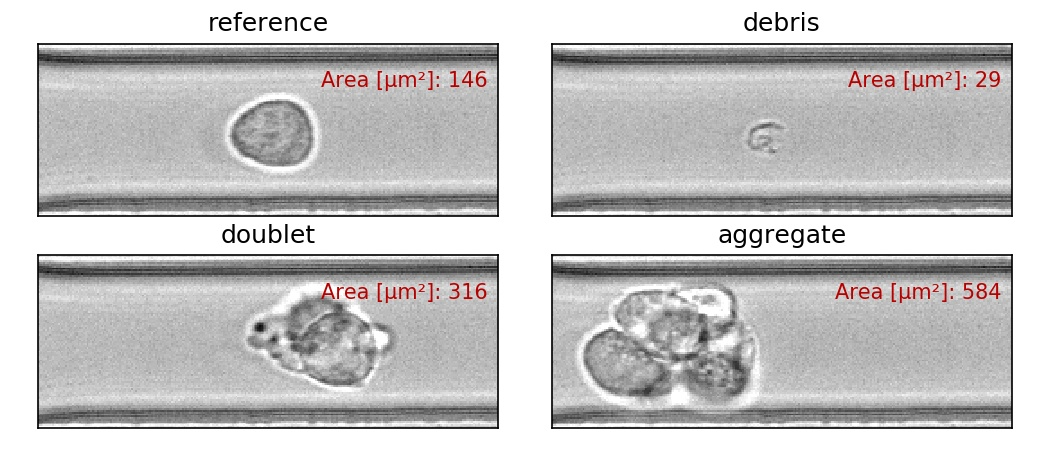
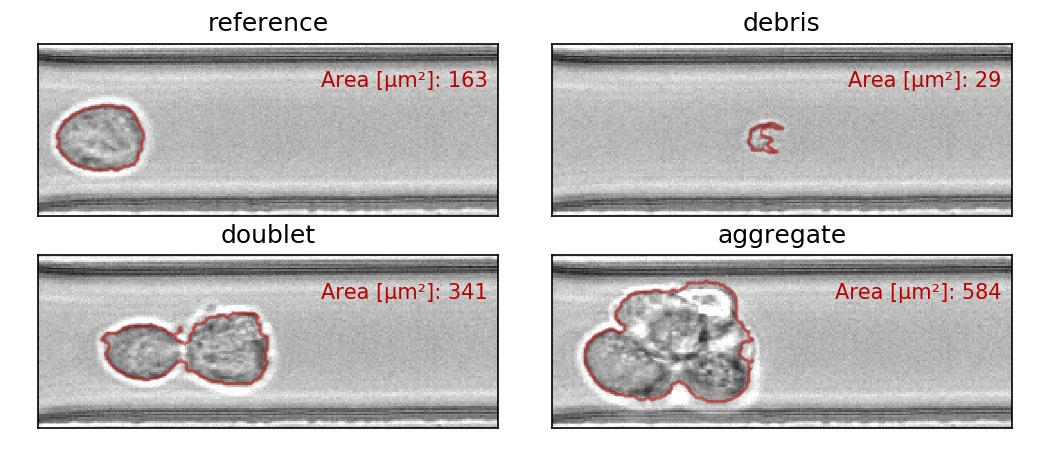
docs: update filtering section

diff --git a/docs/figures/qg_filter_ratios.py b/docs/figures/qg_filter_ratios.py
@@ -6,9 +6,9 @@ import matplotlib.pylab as plt
 ds = dclab.new_dataset("fluorescence/fluorescence.rtdc")
 
 evts = {"reference": 397,
-        "debris": 1979,
-        "doublet": 9430,
-        "aggregate": 2223,
+        "small inertia ratio": 445,
+        "debris": 4429,        
+        "large inertia ratio": 1893,
         }
 
 # plot
@@ -18,15 +18,19 @@ fig = plt.figure(figsize=(7, 3))
 for ii, key in enumerate(evts.keys()):
     evt = evts[key] - 1
     axi = plt.subplot(2, 2, ii+1, title=key)
-    axi.text(250, 15, "Area [µm²]: {:.0f}".format(ds["area_um"][evt]),
+    text = "Aspect ratio: {:.2f}\n".format(ds["aspect"][evt]) \
+           + "Inertia ratio: {:.2f}\n".format(ds["inert_ratio_cvx"][evt]) \
+           + "Deformation: {:.3f}".format(ds["deform"][evt])
+    axi.text(250, 15, text,
              va="top", ha="right", color="#B80000")
-    axi.imshow(ds["image"][evt], cmap="gray", vmin=0, vmax=100)
+    image = ds["image"][evt]
     contour = ds["contour"][evt]
+    axi.imshow(image, cmap="gray", vmin=0, vmax=100)
     plt.plot(contour[:,0], contour[:,1], color="#B80000", alpha=.5)
     axi.set_yticks([])
     axi.set_xticks([])
 
 
 plt.tight_layout()
-plt.savefig("qg_filter_area.jpg", dpi=150)
+plt.savefig("qg_filter_ratios.jpg", dpi=150)
 plt.show()

diff --git a/docs/figures/qg_filter_porosity.py b/docs/figures/qg_filter_porosity.py
@@ -6,9 +6,9 @@ import matplotlib.pylab as plt
 ds = dclab.new_dataset("fluorescence/fluorescence.rtdc")
 
 evts = {"reference": 397,
-        "debris": 1979,
-        "doublet": 9430,
-        "aggregate": 2223,
+        "extremely porous": 8228,
+        "porosity above 1.05": 347,        
+        "invalid event": 4740,
         }
 
 # plot
@@ -18,15 +18,19 @@ fig = plt.figure(figsize=(7, 3))
 for ii, key in enumerate(evts.keys()):
     evt = evts[key] - 1
     axi = plt.subplot(2, 2, ii+1, title=key)
-    axi.text(250, 15, "Area [µm²]: {:.0f}".format(ds["area_um"][evt]),
+    text = "Porosity: {:.2f}\n".format(ds["area_ratio"][evt]) \
+           + "Area [µm²]: {:.0f}\n".format(ds["area_um"][evt]) \
+           + "Deformation: {:.3f}".format(ds["deform"][evt])
+    axi.text(250, 15, text,
              va="top", ha="right", color="#B80000")
-    axi.imshow(ds["image"][evt], cmap="gray", vmin=0, vmax=100)
+    image = ds["image"][evt]
     contour = ds["contour"][evt]
+    axi.imshow(image, cmap="gray", vmin=0, vmax=100)
     plt.plot(contour[:,0], contour[:,1], color="#B80000", alpha=.5)
     axi.set_yticks([])
     axi.set_xticks([])
 
 
 plt.tight_layout()
-plt.savefig("qg_filter_area.jpg", dpi=150)
+plt.savefig("qg_filter_porosity.jpg", dpi=150)
 plt.show()

diff --git a/docs/conf.py b/docs/conf.py
@@ -140,7 +140,7 @@ todo_include_todos = False
 # The theme to use for HTML and HTML Help pages.  See the documentation for
 # a list of builtin themes.
 #
-html_theme = 'default'
+html_theme = 'sphinx_rtd_theme'
 
 # Theme options are theme-specific and customize the look and feel of a theme
 # further.  For a list of options available for each theme, see the

diff --git a/docs/sec_qg_filtering.rst b/docs/sec_qg_filtering.rst
@@ -16,22 +16,30 @@ an analysis.
   identify exclusion candidates by clicking on an event and visualizing
   it in the event area.
 
-    .. figure:: figures/qg_filter_area.jpg
+  .. figure:: figures/qg_filter_area.jpg
 
-       Examples of events with small or large areas.
+     Examples of events with small or large areas.
 
 
-- **Aspect ratio:**
+- **Aspect and inertia ratio:**
 
-  remove cell clusters
+  The aspect ratio of the bounding box and the inertia ratio of the contour
+  can be used to filter cell aggregates and otherwise invalid events.
+  For instance an aspect ratio below 1 (elongation perpendicular to the channel
+  axis) is most-likely debris and can be excluded from the analysis.
+  An inertia ratio below 1 also indicates invalid events.
 
-- **Orientation:**
+  .. figure:: figures/qg_filter_ratios.jpg
 
-  only cells aligned with channel
+     Examples of events with various aspect and inertia ratios.
+
 
 - **Porosity:**
 
-  Remove debris
+  The porosity is the ratio between measured contour and the convex contour.
+  Porosity is commonly used to remove events with non-physical contours,
+  e.g. for cells, all events with a porosity above 1.05.
 
+  .. figure:: figures/qg_filter_porosity.jpg
 
-
+     Examples of events with various porosities.
